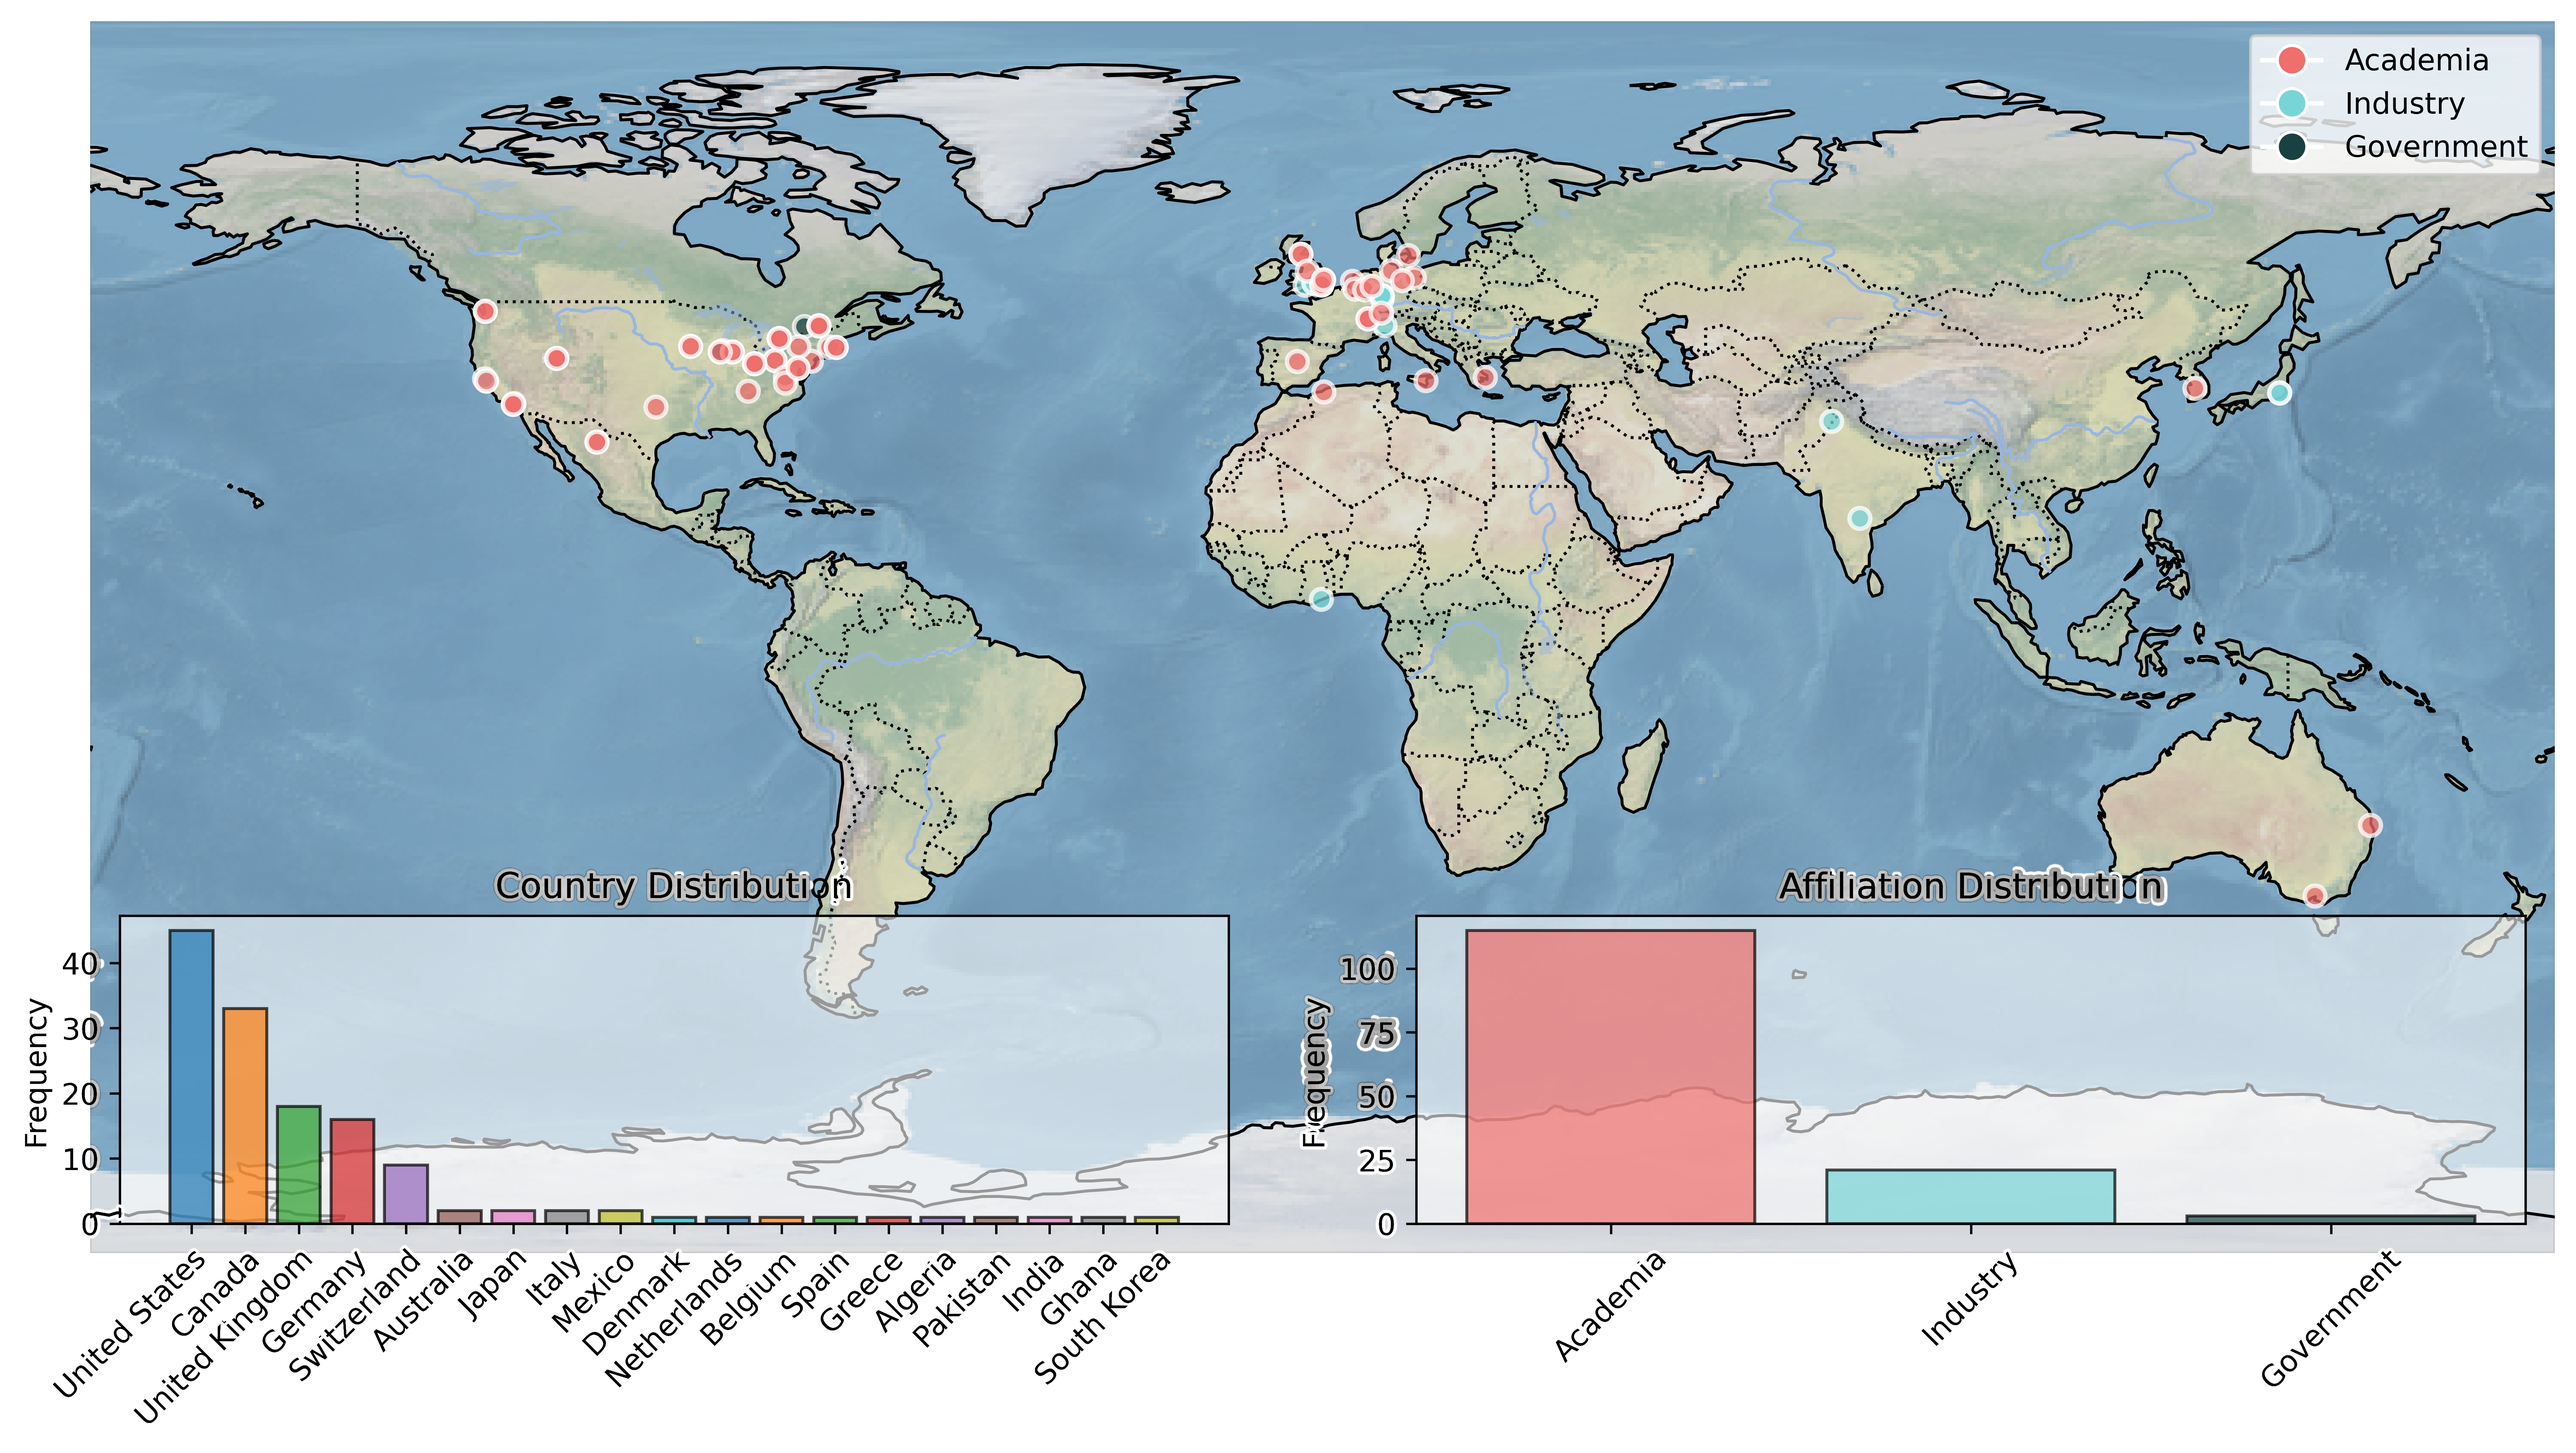
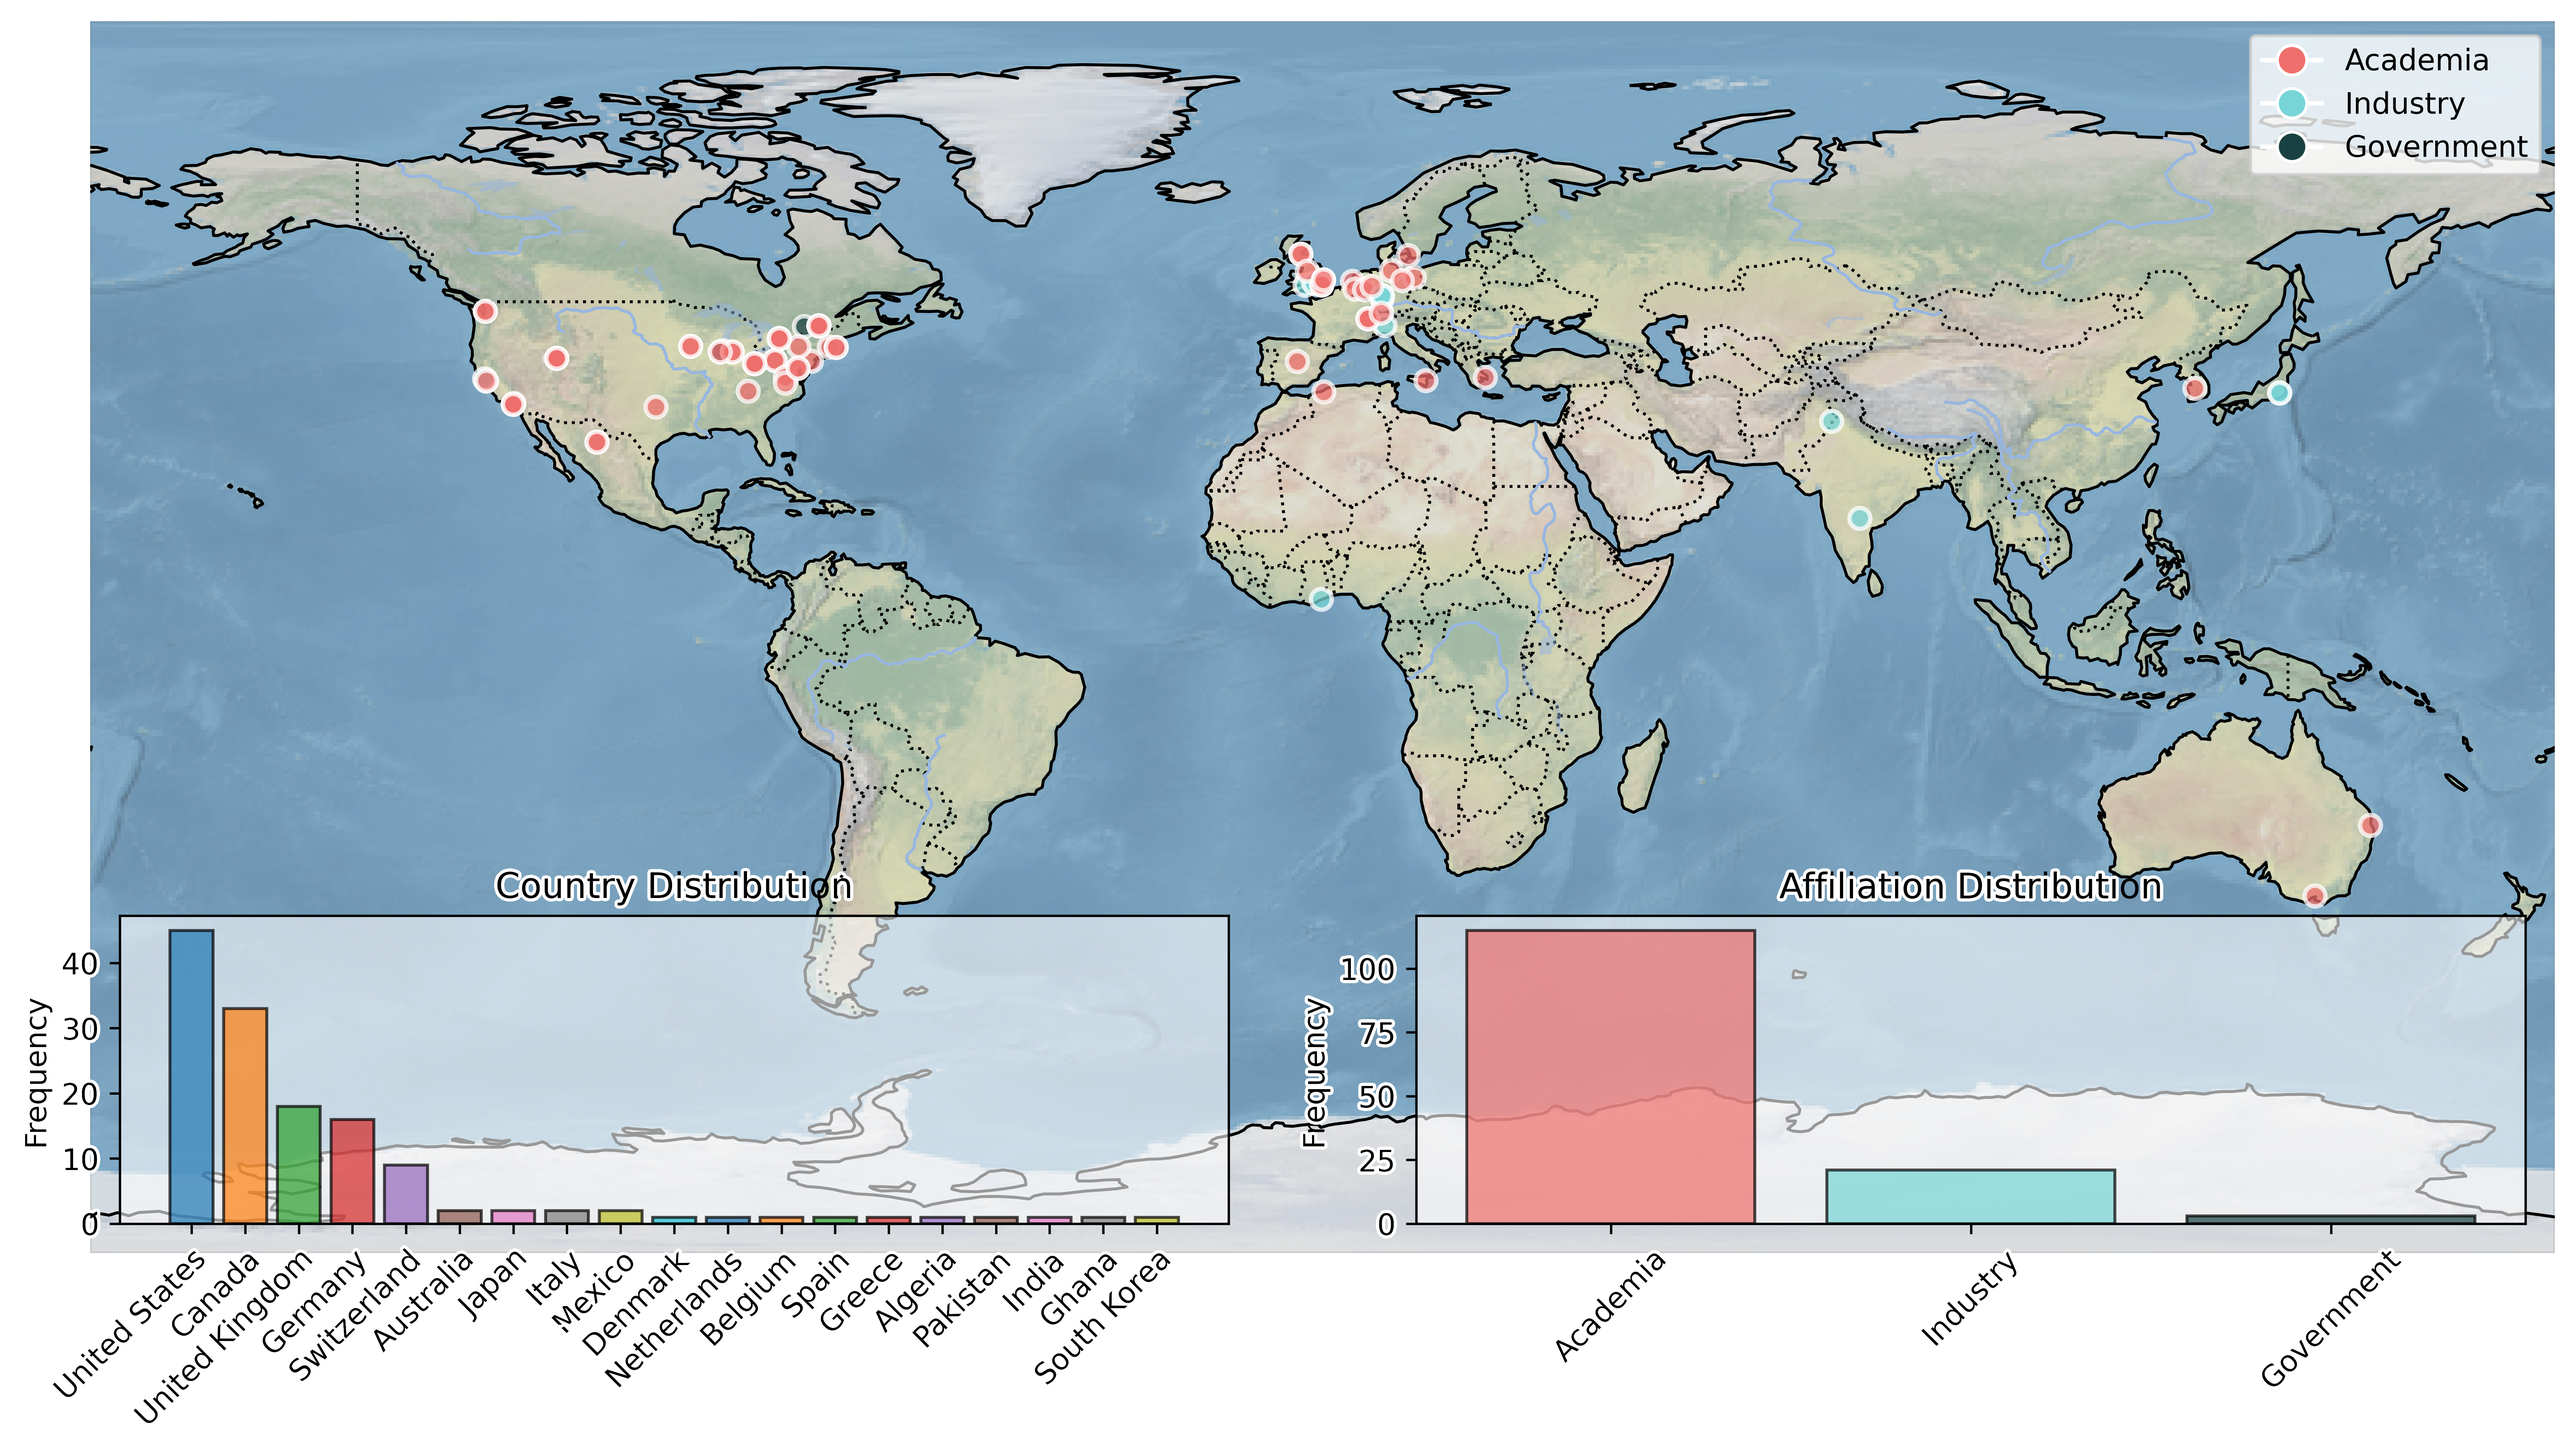
Fig 2: outline only the glyphs, in pure white
The previous stroke computed ink coverage over a 12 px neighbourhood of each
glyph, so two things went wrong where the panel titles sit over the ocean:
the background itself (luminance ~150) was picked up at low opacity and
re-composited as a gray ring, and any map ink inside that neighbourhood --
coastline, dashed country borders -- was inked and given a white outline of
its own. Coverage now comes from the accepted glyph components alone, the
halo is opaque white with no feathering, and components are sized against
the median glyph of their own band so specks of map ink are rejected.

The Antarctic coastline runs into the left panel's "0" tick label and on to
the axis spine, which made the three one component and produced the white
patch over Antarctica. The y-axis bands now stop short of the spine, an
over-wide component is trimmed back to the span of its dense columns, and
the few coastline pixels that touch the digit are excluded explicitly.

Figures 4 and 5 are byte-identical. The manuscript has not been recompiled.

Changed region(s): [[0.4982, 0.6535, 0.5605, 0.778], [0.685, 0.5913, 0.8407, 0.6224], [0.1868, 0.5913, 0.3425, 0.6224]]

diff --git a/scripts/fix_manuscript_figures.py b/scripts/fix_manuscript_figures.py
@@ -6,12 +6,16 @@ result is reproducible:
 1. ``world_map.png`` (Fig. 2) -- "the black text which falls above the map can be
    difficult to read".  The two inset histograms are drawn on top of the world
    map, so their axis labels and panel titles sit directly on the map imagery.
-   We add a thin white stroke around those black glyphs: the glyph runs are found
-   as connected components inside the label bands, the ink coverage is grown by a
-   few pixels to make a halo, the halo is painted white, and the original ink is
-   re-composited on top.  The map underneath is otherwise untouched, and the plot
-   is not regenerated (the underlying survey data are not redistributable at
-   participant granularity).
+   We add a thin white stroke around those black glyphs.  Only the glyphs
+   themselves are outlined: they are found as dark connected components inside
+   the label bands, sized against the median component of their own band, and a
+   component that a map feature happens to touch is trimmed back to the glyph.
+   Map ink that merely passes close by -- a coastline, a dashed country border,
+   an axis rule -- contributes nothing to the coverage map, so it is neither
+   re-inked nor given an outline of its own.  The halo is opaque white with no
+   feathering, so the outline cannot read as gray.  The map underneath is
+   otherwise untouched, and the plot is not regenerated (the underlying survey
+   data are not redistributable at participant granularity).
 
 2. ``gathertown.png`` (Fig. 4) -- participant name labels in the plenary-room
    panel are redacted.  Participants were not asked to consent to publication of
@@ -60,11 +64,22 @@ MAP_TEXT_BANDS = (
     # "Country Distribution" / "Affiliation Distribution" panel titles.
     (0.185, 0.583, 0.339, 0.629),
     (0.683, 0.583, 0.844, 0.629),
-    # y-axis tick numbers + rotated "Frequency" label, left of each panel.
-    (0.000, 0.644, 0.046, 0.853),
-    (0.506, 0.644, 0.549, 0.853),
+    # y-axis tick numbers + rotated "Frequency" label, left of each panel.  The
+    # right edge stops between the widest tick label and the axis spine, so the
+    # spine and its tick marks are not mistaken for text.
+    (0.000, 0.644, 0.0385, 0.853),
+    (0.506, 0.644, 0.5435, 0.853),
     # x-axis category labels underneath both panels.
     (0.000, 0.848, 1.000, 1.000),
+)
+
+# Map ink that physically touches a glyph, so no amount of component analysis
+# can tell the two apart: the Antarctic coastline runs into the right-hand side
+# of the left panel's "0" tick label.  Pixels in these fractional boxes are
+# excluded from the ink search, which stops the coastline being outlined along
+# with the digit.  Nothing here contains text.
+MAP_INK_EXCLUSIONS = (
+    (0.03773, 0.8320, 0.0400, 0.8405),
 )
 
 # A glyph is a dark connected component of roughly this size (source pixels at
@@ -75,14 +90,60 @@ MAP_TEXT_BANDS = (
 INK_CUTOFF = 110  # luminance below which a pixel counts as glyph ink
 GLYPH_MIN_H, GLYPH_MAX_H = 12, 95
 GLYPH_MIN_W, GLYPH_MAX_W = 6, 130
-# Luminance ramp converting the flattened raster back into an ink-coverage map,
-# so the anti-aliased glyph edges survive the re-composite.
-INK_DARK = 90
-INK_LIGHT = 175
+# Within a band the text is set in one or two sizes, so the median accepted
+# component is a good yardstick.  Anything much smaller is map ink (a dot from a
+# dashed border, a speck of coastline); anything much wider is a glyph that a
+# map feature happens to touch, and is trimmed back to the glyph (see
+# ``_trim_to_glyph``).
+MIN_REL_HEIGHT = 0.40
+TRIM_REL_WIDTH = 1.6
+TRIM_KEEP_FRAC = 0.35
+# The label text is pure black.  Only pixels darker than AA_LIGHT are treated as
+# (partial) ink, which keeps the ocean -- luminance about 150 where the titles
+# sit -- out of the coverage map entirely; without this the background itself
+# was picked up at low opacity and re-composited as a gray ring around the text.
+AA_LIGHT = 130
+AA_DARK = 20
+AA_MARGIN = 3  # px around a glyph core searched for its anti-aliased edge
 # Halo half-width in source pixels.  About 15% of the glyph height: enough to
 # separate the ink from the imagery at print size, small enough that the counters
 # of "0"/"o"/"e" stay open and the outline does not read as a filled plate.
 STROKE_RADIUS = 9
+
+
+def _trim_to_glyph(mask, keep_frac: float, axes):
+    """Cut a thin appendage off a glyph that a map feature happens to touch.
+
+    The Antarctic coastline runs straight through the left panel's ``0`` tick
+    label and on into the axis spine, so the ``0`` and the coastline are one
+    connected component.  A glyph is dense in the columns it occupies while a
+    passing line contributes only its own stroke width, so the span of columns
+    (or rows, whichever direction the component is over-long in) holding at
+    least ``keep_frac`` of the peak ink marks the glyph's extent.  The component
+    is cut back to that span -- the span rather than the individual dense
+    columns, so that the sparse interior of an "0" survives -- and the largest
+    surviving piece is kept.
+    """
+    import numpy as np
+    from scipy import ndimage
+
+    trimmed = mask.copy()
+    for axis in axes:
+        profile = trimmed.sum(axis=axis)
+        if not profile.max():
+            return mask
+        dense = np.flatnonzero(profile >= keep_frac * profile.max())
+        if not dense.size:
+            return mask
+        span = np.zeros(profile.shape, bool)
+        span[dense[0] : dense[-1] + 1] = True
+        trimmed &= span[None, :] if axis == 0 else span[:, None]
+
+    pieces, count = ndimage.label(trimmed)
+    if count == 0:
+        return mask
+    sizes = ndimage.sum(trimmed, pieces, range(1, count + 1))
+    return pieces == (int(np.argmax(sizes)) + 1)
 
 
 def fix_world_map(src: Path, dst: Path) -> None:
@@ -95,48 +156,66 @@ def fix_world_map(src: Path, dst: Path) -> None:
     lum = np.asarray(img.convert("L")).astype(np.float32)
 
     # 1. Locate the glyphs: dark connected components of glyph-like size that
-    #    lie inside one of the label bands.
-    bands = np.zeros((h, w), bool)
-    for x0, y0, x1, y1 in MAP_TEXT_BANDS:
-        bands[int(y0 * h) : int(y1 * h), int(x0 * w) : int(x1 * w)] = True
+    #    lie inside one of the label bands.  Each band is judged on its own so
+    #    the size yardstick reflects the text set in it.
+    searchable = np.ones((h, w), bool)
+    for x0, y0, x1, y1 in MAP_INK_EXCLUSIONS:
+        searchable[int(y0 * h) : int(y1 * h), int(x0 * w) : int(x1 * w)] = False
 
-    dark = (lum < INK_CUTOFF) & bands
-    labelled, _ = ndimage.label(dark)
     glyphs = np.zeros((h, w), bool)
     kept = 0
-    for idx, sl in enumerate(ndimage.find_objects(labelled), start=1):
-        if sl is None:
+    for x0, y0, x1, y1 in MAP_TEXT_BANDS:
+        sl_y = slice(int(y0 * h), int(y1 * h))
+        sl_x = slice(int(x0 * w), int(x1 * w))
+        band_lum = lum[sl_y, sl_x]
+        labelled, _ = ndimage.label((band_lum < INK_CUTOFF) & searchable[sl_y, sl_x])
+
+        candidates = []
+        for idx, sl in enumerate(ndimage.find_objects(labelled), start=1):
+            if sl is None:
+                continue
+            gh = sl[0].stop - sl[0].start
+            gw = sl[1].stop - sl[1].start
+            if GLYPH_MIN_H <= gh <= GLYPH_MAX_H and GLYPH_MIN_W <= gw <= GLYPH_MAX_W:
+                candidates.append((idx, sl, gh, gw))
+        if not candidates:
             continue
-        gh = sl[0].stop - sl[0].start
-        gw = sl[1].stop - sl[1].start
-        if GLYPH_MIN_H <= gh <= GLYPH_MAX_H and GLYPH_MIN_W <= gw <= GLYPH_MAX_W:
-            glyphs[sl] |= labelled[sl] == idx
+
+        median_h = float(np.median([c[2] for c in candidates]))
+        median_w = float(np.median([c[3] for c in candidates]))
+        band_glyphs = np.zeros_like(band_lum, bool)
+        for idx, sl, gh, gw in candidates:
+            if gh < MIN_REL_HEIGHT * median_h:
+                continue  # a speck of map ink, not a glyph
+            component = labelled[sl] == idx
+            axes = []
+            if gw > TRIM_REL_WIDTH * median_w:
+                axes.append(0)  # drop sparse columns
+            if gh > TRIM_REL_WIDTH * median_h:
+                axes.append(1)  # drop sparse rows
+            if axes:
+                component = _trim_to_glyph(component, TRIM_KEEP_FRAC, axes)
+            band_glyphs[sl] |= component
             kept += 1
+        glyphs[sl_y, sl_x] |= band_glyphs
 
-    # 2. Ink coverage, restricted to a neighbourhood of the accepted glyphs so
-    #    the anti-aliased edges are included but unrelated map ink is not.
-    zone = ndimage.binary_dilation(
-        glyphs, structure=_disk(STROKE_RADIUS + 3)
-    )
-    alpha = np.clip((INK_LIGHT - lum) / (INK_LIGHT - INK_DARK), 0.0, 1.0) * zone
+    # 2. Ink coverage.  Only the accepted glyphs and their own anti-aliased
+    #    edges contribute -- map ink that merely passes nearby does not, so it
+    #    is neither re-inked nor given an outline of its own.
+    near = ndimage.binary_dilation(glyphs, structure=_disk(AA_MARGIN)) & searchable
+    alpha = np.clip((AA_LIGHT - lum) / (AA_LIGHT - AA_DARK), 0.0, 1.0) * near
 
-    # 3. Grow the coverage into a halo and paint it white, then put the original
-    #    ink back on top.  The halo is opaque out to STROKE_RADIUS and feathered
-    #    over the last pixel so its outer edge does not read as a hard cut.
-    halo = ndimage.binary_dilation(
-        alpha > 0.35, structure=_disk(STROKE_RADIUS)
-    ).astype(np.float32)
-    halo = ndimage.gaussian_filter(halo, sigma=1.0)[..., None]
+    # 3. Grow the coverage into a halo, paint it opaque white -- no feathering,
+    #    so the outline never reads as gray -- and lay the black text back over
+    #    it at its own coverage.
+    halo = ndimage.binary_dilation(alpha > 0.15, structure=_disk(STROKE_RADIUS))
     a = alpha[..., None]
-    ink = np.median(rgb[alpha > 0.95], axis=0) if (alpha > 0.95).any() else np.zeros(3)
-
-    backdrop = rgb * (1.0 - halo) + 255.0 * halo
-    out = ink * a + backdrop * (1.0 - a)
+    out = np.where(halo[..., None], 255.0, rgb) * (1.0 - a)
 
     Image.fromarray(np.clip(out, 0, 255).astype("uint8")).save(dst, optimize=True)
     print(
         f"wrote {dst.relative_to(REPO_ROOT)} ({w}x{h}); {kept} glyphs stroked, "
-        f"{100 * float((halo[..., 0] > 0.02).mean()):.2f}% of pixels touched"
+        f"{100 * float(halo.mean()):.2f}% of pixels touched"
     )
 
 
